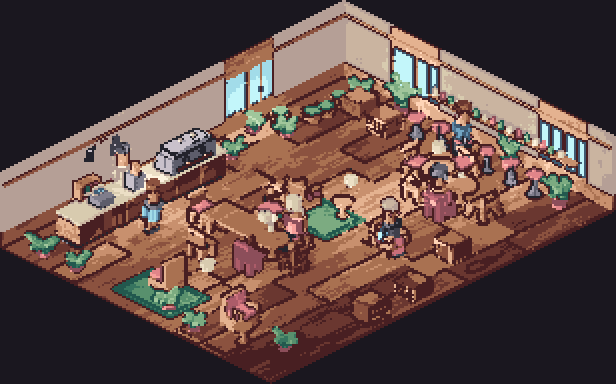
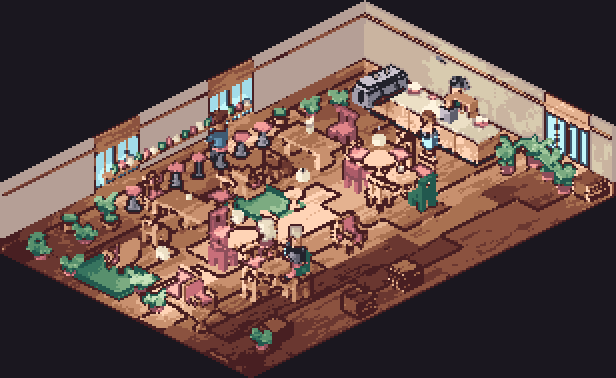
The counter was bare, and the contrast metric could not tell me
The focal check went red after the generator work: one room at +0.045
against a floor of 0.060. Four wrong answers, then something about the
instrument.

WHERE THE GAP WAS. The reference room carries eleven clutter items
within 3.5 tiles of its till and the generated rooms carried none. A
bare counter has nothing for the eye to land ON once the light has sent
it there. Generated focal zones now hold 19-29 props against the
reference's 30.

Three hypotheses were measured and discarded first, which is the point:
prop density per square metre does not predict contrast (the room with
the densest periphery reads strongest); a mid-field negative pool aimed
at counters far from any corner moved the reading by 0.000 in three
variants, so it stayed a knob and stayed unshipped; counter orientation
looked like a signal at n=2 and dissolved at n=4.

A RULE IN TWO COPIES, THE THIRD TIME IN THIS FILE. Reserving counter
length for dressing changed nothing: the kit was tallied in one loop and
re-decided in another, both carrying `length - 0.3`. The tally dropped
the grinder and the placement loop put it back. After the support test
and the shelving span, the fix is the same each time -- decide once.

A TRANSCRIPTION SLIP, visible in the frame long before the numbers. The
counter's core pool sat at `cy + 0.35` where the reference room's
hand-placed pools sit at their run's centre, so a 2.6-radius core was
half a tile off the counter and over the queue. The offset was in y
[…]

diff --git a/tools/build_plan.py b/tools/build_plan.py
@@ -47,6 +47,9 @@ PAINTS = ("wood", "foliage-3", "rose-3", "wood", "wood-2", "wood")
 # How much of the run the espresso machine takes, including its lead-in gap.
 MACHINE_SPAN = 2.9
 
+# Counter length kept clear of the kit, for cups and cake stands to stand in.
+DRESSING_RESERVE = 1.5
+
 # Square metres of floor per ceiling lamp, from the reference room: three over
 # 14.0 x 9.6.
 LAMP_AREA = 45.0
@@ -87,8 +90,25 @@ def light_rig(plan: F.Plan) -> LightRig:
     """
     run = plan.of("service")[0]
     cx, cy = (run.x0 + run.x1) / 2, (run.y0 + run.y1) / 2
-    pools = [Pool((cx, cy + 0.35, 1.26), 2.6, 0.66),
-             Pool((cx, cy + 0.50, 1.05), 4.6, 0.30)]
+    # ON the counter, not half a tile in front of it. The reference room's two
+    # hand-placed pools sit at y 1.20 and 1.35 over a run spanning 0.85 to
+    # 1.85 -- that is its centre and a touch behind. Generalising them picked
+    # up a `+0.35` and a `+0.50` from somewhere, which pushed a 2.6-radius core
+    # off the counter and over the queue, and cost the counter 0.08 of mean L
+    # against the rooms whose run happens to lie along the offset instead of
+    # across it. Visible in the frame long before it was visible in the
+    # numbers: one room's counter is a warm pool and the other's is a dim
+    # corner, and the numbers said +0.107 and +0.045 without saying why.
+    #
+    # Perpendicular to the run, too. A vertical run's customer side is +x, and
+    # a fixed +y offset slid the pool ALONG such a counter rather than across
+    # it -- which is why the vertical-run rooms looked fine and hid the bug.
+    if run.facing == 0.0:
+        core, wash = (cx, cy - 0.15), (cx, cy)
+    else:
+        core, wash = (cx - 0.15, cy), (cx, cy)
+    pools = [Pool((core[0], core[1], 1.26), 2.6, 0.66),
+             Pool((wash[0], wash[1], 1.05), 4.6, 0.30)]
     for t in plan.win_x:
         pools.append(Pool((t + 0.5, 0.30, 0.95), 3.0, 0.40))
     for t in plan.win_y:
@@ -166,11 +186,34 @@ def build(plan: F.Plan) -> Layout:
     # behind the grinder 37%.
     kit = [(A.espresso_machine, 2.0, "espresso"), (A.grinder, 0.8, "grinder"),
            (A.register, 0.9, "register")]
-    kit_extent, used = 0.35, 0.35
-    for _, width, _ in kit:
-        if kit_extent + width > length - 0.3:
+    # The kit stops short of the end of the run by DRESSING_RESERVE rather
+    # than by a token 0.3, because the kit and the clutter compete for the same
+    # counter and the kit is the low-contrast half of it. The machine's own
+    # docstring records that a plain one is "a single featureless grey mass";
+    # three grey boxes in a row is that argument three times.
+    #
+    # Measured: the one room in eight that fitted all three fitted only three
+    # clutter items against the others' five to seven, and it is the one room
+    # whose counter fails to lead the frame. The reference room, which holds
+    # +0.133 at every render size, runs two kit items and ELEVEN pieces of
+    # clutter. A cafe with a short counter owns a machine and a till, not a
+    # machine and a till and a grinder.
+    #
+    # Decided ONCE, into `kit`, rather than tallied here and re-decided at
+    # placement time. Those were two loops with the same `length - 0.3` in
+    # them, and changing the reserve in one of them changed nothing: the tally
+    # dropped the grinder and the placement loop put it down anyway. That is
+    # the third time in this file that two copies of a rule have behaved as one
+    # rule and one bug -- after the support test and the shelving span -- and
+    # the fix is the same each time.
+    kit_extent = 0.35
+    fits = []
+    for entry in kit:
+        if kit_extent + entry[1] > length - DRESSING_RESERVE:
             break
-        kit_extent += width + 0.55
+        fits.append(entry)
+        kit_extent += entry[1] + 0.55
+    kit = fits
 
     # --- the service run, as one-tile modules tiled flush along the zone
     n = max(1, int(round(run.w if horizontal else run.d)))
@@ -192,9 +235,8 @@ def build(plan: F.Plan) -> Layout:
     # before the thing it constrains is a check that always passes.
     # --- the kit itself, spaced along the run rather than at coordinates
     top = run.y0 + 0.10 if horizontal else run.x0 + 0.10
+    used = 0.35
     for factory, width, tag in kit:
-        if used + width > length - 0.3:
-            break
         pos = (run.x0 + used, top + 0.05, 0.92) if horizontal else (
             top + 0.05, run.y0 + used, 0.92)
         try:
@@ -290,6 +332,42 @@ def build(plan: F.Plan) -> Layout:
         add(A.menu_board(), at=at, rot=0 if horizontal else 270,
             name=f"decor#menu{bi}")
 
+    # --- the counter top. The reference room carries ELEVEN clutter items
+    # within 3.5 tiles of its till -- cups, a cake stand, vases, a clutter
+    # cluster -- and the generated rooms carried none. That is where the focal
+    # gap actually was, and it took three wrong answers to find: depth staging,
+    # ramp balance and accent spread all came back matching, prop density per
+    # square metre did not predict contrast either (the room with the densest
+    # periphery reads strongest), and a mid-field negative pool would have been
+    # a knob rather than a cause. The counter was simply bare, and a bare
+    # counter has nothing for the eye to land ON once it has been sent there.
+    #
+    # Placed by the solver, in the gaps the kit leaves, so nothing lands behind
+    # the machine or on top of the till.
+    top_z = 0.92
+    on_bar = 0
+    dress = (lambda k: A.cake_stand(), lambda k: A.cup_and_saucer(),
+             lambda k: A.flower_vase(seed=190 + k),
+             lambda k: A.table_clutter("counter"),
+             lambda k: A.cup_and_saucer())
+    step, di = 0.42, 0
+    reach = length - 0.35
+    off = 0.35
+    while off < reach and di < 7:
+        along = run.x0 + off if horizontal else run.y0 + off
+        at = ((along, run.y0 + 0.42, top_z) if horizontal
+              else (run.x0 + 0.42, along, top_z))
+        nm = f"clutter#bar{di}"
+        L.add(dress[di % len(dress)](di), at=at, name=nm, centre=True)
+        cand = L.items.pop()
+        if L._conflicts(cand, 45.0, 0.35):
+            L.rots.pop(nm, None)
+        else:
+            L.items.append(cand)
+            on_bar += 1
+            di += 1
+        off += step
+
     # --- window bar: a run of stools facing the glass
     for bi, z in enumerate(plan.of("window_bar")):
         along_x = z.w >= z.d
@@ -310,7 +388,7 @@ def build(plan: F.Plan) -> Layout:
 
     # --- seating. Tables with chairs on all four sides in the cafe blocks,
     # armchairs and benches in the lounges, both placed by the solver.
-    made = 0
+    made = on_bar
     for zi, z in enumerate(plan.of("cafe")):
         made += L.scatter(
             lambda i, zi=zi: A.table_4top(seed=6 + zi * 5 + i)

diff --git a/ART_CRITIQUE.md b/ART_CRITIQUE.md
@@ -1904,3 +1904,65 @@ meant to tile flush and two identical ones are the point.
 
 Every unseeded mesh is byte-identical to before, so existing sprite sheets are
 untouched.
+
+## The counter was under-dressed, and the contrast metric could not tell me
+
+The focal check went red after the generator work, on one room, at +0.045
+against a floor of 0.060. Finding out why took four wrong answers and then a
+discovery about the instrument.
+
+**Where the gap actually was.** The reference room carries **eleven** clutter
+items within 3.5 tiles of its till — cups, a cake stand, vases, a clutter
+cluster — and the generated rooms carried **none**. A bare counter has nothing
+for the eye to land *on* once the light has sent it there. Generated focal zones
+went from 14–20 props to 19–29 against the reference's 30.
+
+Three hypotheses were measured and discarded first, and the discarding is the
+point:
+
+- **prop density per square metre** does not predict contrast — the room with
+  the densest periphery relative to its centre reads *strongest*;
+- **a mid-field negative pool**, aimed at rooms whose counter is far from any
+  corner, moved the reading by **0.000** in three variants. It would have been
+  a knob, and it was tested before it was shipped;
+- **counter orientation** looked like a signal at n=2 and dissolved at n=4.
+
+**A rule in two copies, for the third time in this file.** Reserving counter
+length for dressing changed nothing, because the kit was tallied in one loop
+and re-decided in another, both carrying the same `length - 0.3`. The tally
+dropped the grinder and the placement loop put it back. After the support test
+and the shelving span, this is the third instance, and the fix was the same
+each time: decide once.
+
+**A transcription slip, visible in the frame long before the numbers.** The
+counter's core light pool sat at `cy + 0.35` where the reference room's
+hand-placed pools sit at their run's centre — so a 2.6-radius core was half a
+tile off the counter, over the queue. And the offset was in `y` regardless of
+orientation, so it slid *along* a vertical run instead of across it, which is
+why vertical-run rooms looked fine and hid it. Side by side, one room's counter
+is a warm pool and the other's is a dim corner; the numbers said +0.107 and
++0.045 without saying why.
+
+### Why none of it moved the reading: the metric is quantized
+
+Every intervention left the weak room at **exactly +0.045** — inside 0.546,
+outside 0.502, to the thousandth, four times running. A number that will not
+move under changes that visibly alter the frame is the same tell as a
+degenerate box.
+
+The frame contains **37 distinct lightness values**. It has to: the whole point
+of this pipeline is that lighting is quantized to palette ramps. Contrast here
+is a 5–95 *percentile spread* — a tail statistic over 37 discrete levels — so it
+is a step function whose steps are about as wide as the margin the floor was
+sitting in. Mean L is a first moment over ~50 000 pixels and moved with every
+change (0.603 → 0.591).
+
+This is also the real explanation for the earlier resolution sweep, where
+contrast collapsed from 320 to 480 and mean L held. Same cause, found from the
+other end.
+
+**Rejecting mean L earlier was right for the wrong reason.** It was rejected as
+"the metric that agreed with the answer already written down", which was the
+correct instinct with no evidence behind it. The evidence is now in: contrast is
+quantized by construction and mean L is not, and that is a property of the
+instrument rather than a preference for its reading.
